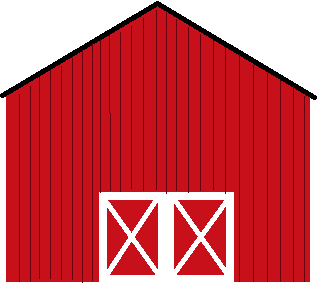
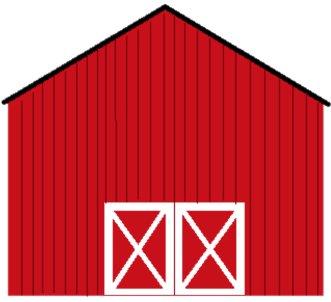
Update to barn and added farm house
Updated barn art to have transparent background. Added a farmhouse to the bottom right of the map.

Changed region(s): [[0.0, 0.0, 1.0, 1.0]]

diff --git a/src/main.rs b/src/main.rs
@@ -108,7 +108,7 @@ fn main() {
             .unwrap(),
     );
 
-    let barn = item::Barn::new(
+    let barn = item::Item::new(
         Rect::new(
             200,
             200,
@@ -117,6 +117,18 @@ fn main() {
         ),
         texture_creator
             .load_texture("images/Barn.png").unwrap(),
+        true,
+    );
+
+    let farmhs = item::Item::new(
+        Rect::new(
+            2000,
+            2000,
+            400,
+            320,
+        ),
+        texture_creator
+            .load_texture("images/Farmhouse.png").unwrap(),
         true,
     );
 
@@ -207,6 +219,7 @@ fn main() {
 
         // Drawing item
         wincan = barn.printItem(cur_bg.x(), cur_bg.y, CAM_W, CAM_H, wincan);
+        wincan = farmhs.printItem(cur_bg.x(), cur_bg.y, CAM_W, CAM_H, wincan);
 
         // Draw player
         wincan.copy(p.texture(), p.src(), player_cam_pos).unwrap();

diff --git a/src/item.rs b/src/item.rs
@@ -1,16 +1,16 @@
 use sdl2::rect::Rect;
 use sdl2::render::{Texture, WindowCanvas};
 
-pub struct Barn<'a> {
+pub struct Item<'a> {
     pos: Rect,
     texture: Texture<'a>,
     collision: bool,
 }
 
-impl<'a> Barn<'a> {
+impl<'a> Item<'a> {
 
-    pub fn new(pos: Rect, texture: Texture<'a>, collision: bool) -> Barn {
-        Barn {
+    pub fn new(pos: Rect, texture: Texture<'a>, collision: bool) -> Item {
+        Item {
             pos,
             texture,
             collision,
